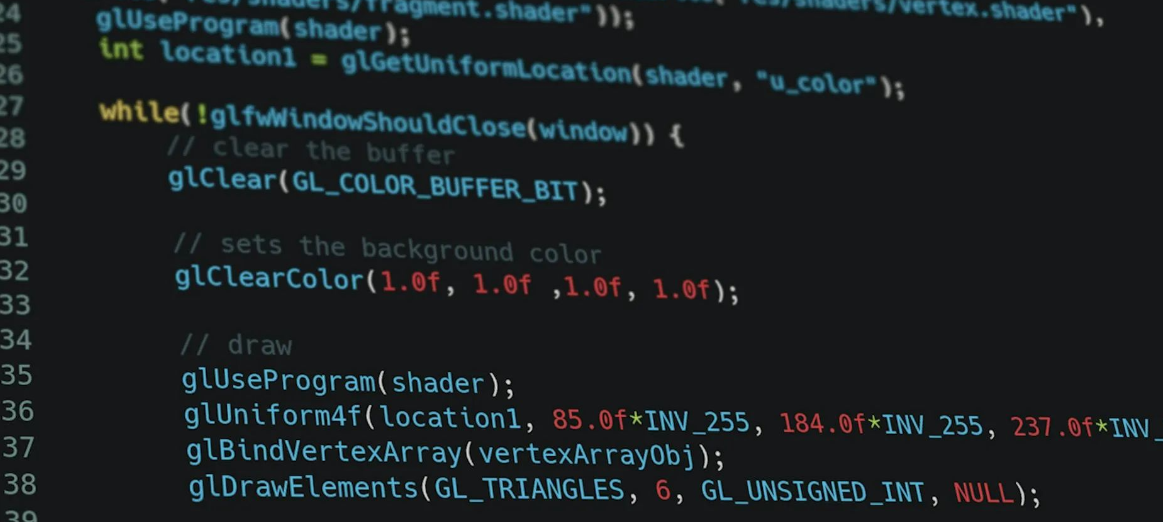
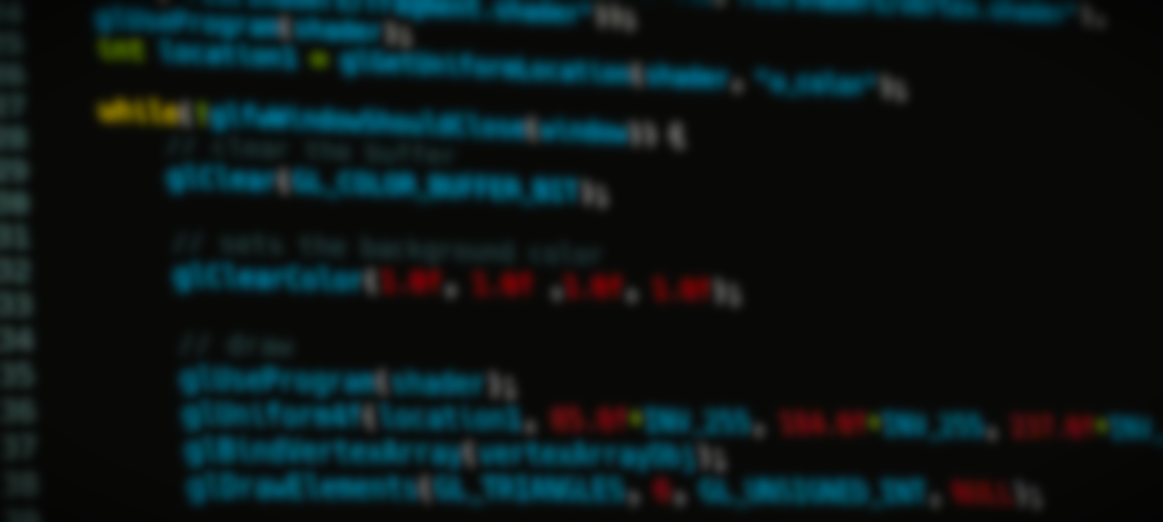
sauvegarde : modification de l'image de fond du texte pour mes réseaux.

diff --git a/index.css b/index.css
@@ -355,6 +355,6 @@ article {
     z-index: -1;
 }
 
-.card:hover:not(.text_card) {
-    filter: blur(5px);
+.card:hover .card:hover:not(.text_card) {
+    filter: blur(10px);
 }
